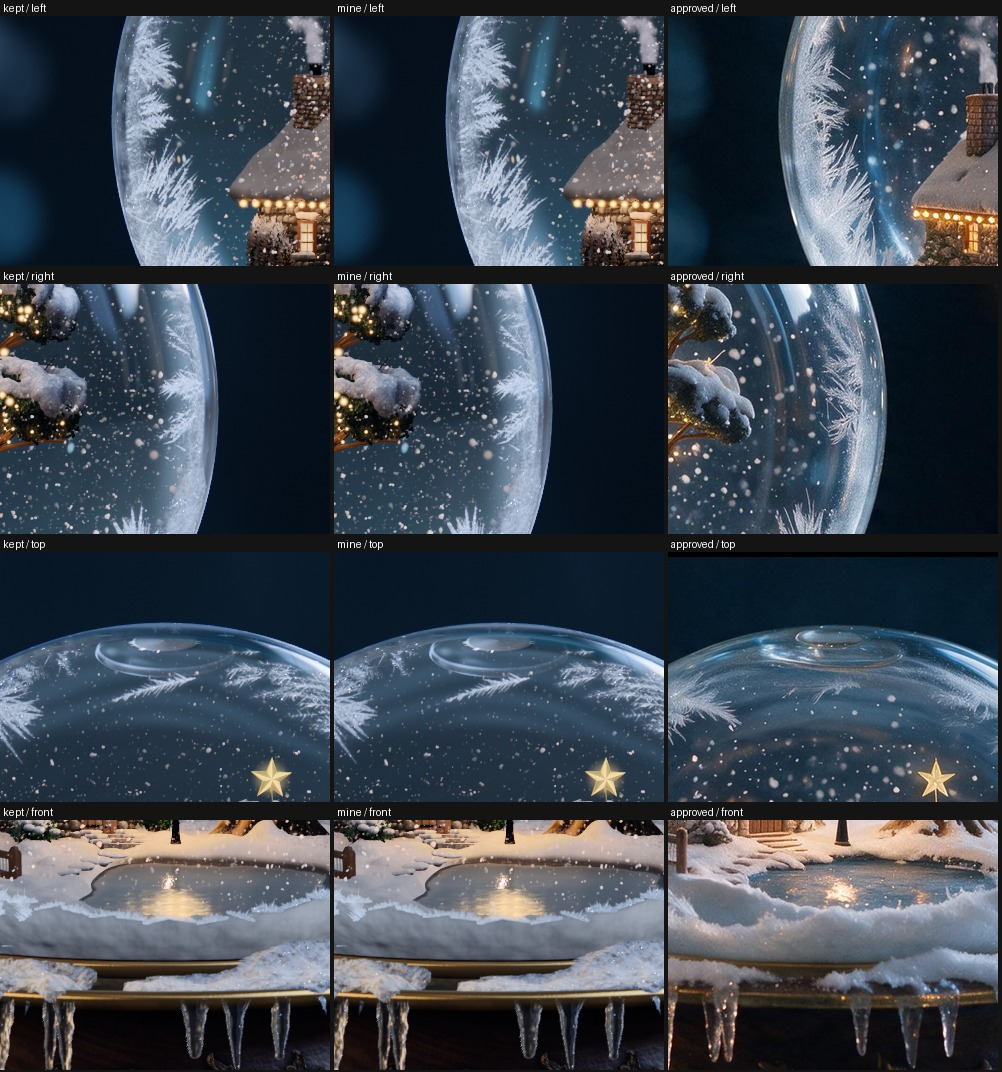
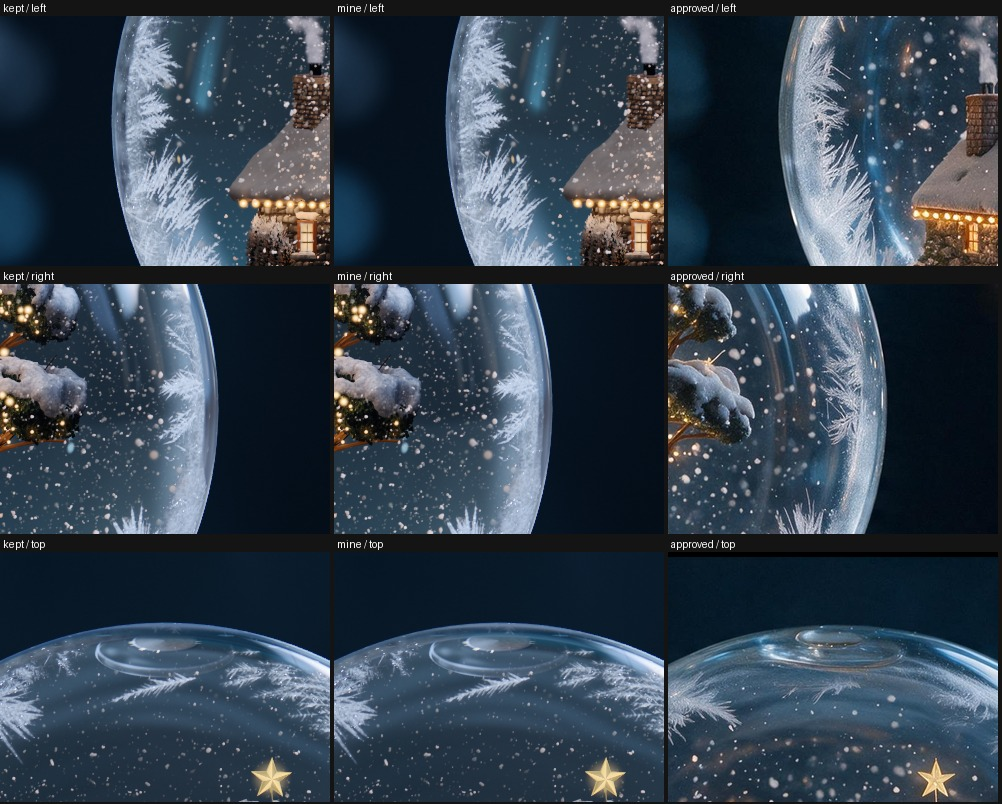
Handover for the glass, and winter at the tip

diff --git a/HANDOVER.md b/HANDOVER.md
@@ -1,0 +1,172 @@
+# The glass: handover for the next round
+
+Branch `agent/p5-glass`. All line numbers are in `src/globe/shell.ts` at the tip unless a file is named.
+Every season sets its glass through `setGlass(season, {...})` (line 102; winter's defaults at line 99 draw the kept picture).
+The values live in `src/seasons/spring/glass.ts:33`, `src/seasons/summer/glass.ts:28`, `src/seasons/fall/glass.ts:27`, `src/seasons/winter/frost.ts:24`.
+The shell measures everything in `s`, the share of the radius on screen (1 is the outline; 1 percent is 3.8 px at hd).
+
+## Item 64: the ring at the top (not mended)
+
+What the picture shows: spring, summer and fall keep a dark band about 13 px deep under the top outline. The teal band is gone.
+Ruled out, each by its own render: the mirror band (line 617, `mirBand`), the ring mesh (line 596, `ringCover` at 0), the rim zone's even glow (line 523, `uRimGlow` at 0, kept at 0 because the band got darker and less ring-like).
+Not yet tried, in the order I would try them:
+1. Line 578, `alpha`: the term `rim.clear * uRimAmt.x * rimZone` darkens the inside from `rim.from` 0.96 to the outline. The band's depth (13 px is 0.966) matches `rim.to` 0.967. Set `rimClear: 0` in one season and render the top.
+2. Lines 551 to 554, `wallZone` (`body.from` 0.962 to `body.to` 0.978) and the `wall` plate (line 51, `to: [0.966, 0.976]`): both end where the band starts. Give each an amount as `rimGlow` has and set it to 0.
+3. Line 47, `band` (`from` 0.976, `shade` 0.3, `side: [-0.2, 0.5]`): it shades the inside over the top left.
+A draft still of one season takes 70 s; the top band is plain at 2 samples, so judge it at draft and prove it at final.
+
+## Items 65 and 150: the outline (not mended)
+
+What the picture shows: at the final tier (24 samples) the kept keys have a smooth outline. Where the ring is thinned (`ringCover: 0.35`, `ringThin: 1`), a stepped 1 px bright line showed at the top left, the same steps as at 2 samples, so it is something the samples do not average.
+Commit `cf3d349` (line 596: the ring's outermost line, `ring.edge` 0.989 to 0.994, always covers) hides most of it; spring is still faintly stepped at 4x.
+Next:
+1. Find the line itself. It is either brighter than the display's white, so one sample in 24 saturates the pixel (candidates: `edge.line` at line 48 with `gain` 1.3 and `glint` 1.8, `rimCard` at line 37 with `tint [2.63, 2.29, 1.6]`), or it is read from a picture that does not move with the samples (`uBehind`, filled by `resolveBehind` in `src/core/accumulator.ts`, not the glass's file). Test: render fall at final with `ringCover: 0` and clamp `col` to 1 before the limb fade; if the steps go, it is the first.
+2. `glassLimb` (line 209) fades the shell over `limbPx` pixels (line 45) inside the outline; whatever lies behind shows through that fade. If the inside's own edge is hard there, the fade exposes it. Report it to whoever holds `src/core/accumulator.ts`.
+3. Mottle: `ringMottle: 0.3` in three seasons. Winter keeps 1.
+
+## Items 66, 75, 83, 121, 149: nothing bent near the rim (not mended)
+
+Numbers: the lens (`src/globe/lens.ts`, `lensPlace`) is right. Cottage 1.44x wider with it (247 px against 172 px in the `refraction` view), 1.333 at the centre in theory, 1.0 at the rim, and the last tenth of the radius holds central-plane radii 0.727R to R.
+What hid it is now off in three seasons: `bend: 0`, `ringCover: 0.35`, `ringThin: 1`, `rimClear: 0.3`. Winter keeps `bend: 1` (line 638).
+Why it still does not read: particles are sprites. `src/particles/draw/shader.ts` line 103 places the centre through the lens, but line 120 `mag` is the on-axis magnification and line 125 `rPx` uses it in both directions, so a flake at share 0.97 is as round as one at the centre.
+Next (not the glass's file, give it to the particles' owner): after line 103 call `lensPlace` for a second point a small step outward along the radius, take the ratio of the seen step to the true step, and scale the sprite's extent along the screen radius by it. `src/core/materials.ts` lines 148 to 149 do the same for the stage.
+Tried in the shell and dropped: `bend` at 0.22 (no visible change) and a monotone remap of `uBehind` over the last 14 percent (leaves were stretched toward the rim, because a remap with fixed ends must stretch somewhere). Do not repeat these.
+The ground's front edge and the fence are geometry in `src/scene/` and already go through the lens; their look at the rim is the scene's.
+
+## The layered arcs at the rim (not started)
+
+What the approved images show: thin bright arcs lying along the rim over the last 8 to 10 percent of the radius, orange in fall, golden in summer, pink-white in spring, warm glints in winter. They are the room's lights and the inside's own lights squeezed by the glass.
+What exists: the through view (`THROUGH`, `glassPoints`) draws the room's lights through the sphere; the mirror band (lines 597 to 617) marches the inside's light grid and is multiplied by `ringCover`, so it is nearly off in three seasons.
+Next:
+1. Raise the through view's fourth order near the rim (`windowGain[3]`) and look for arcs at share 0.9 to 0.98.
+2. Give the mirror band its own amount, separate from `ringCover` (the two lines after `mirBand`, `mirCover` and `gl_FragColor`, multiply by `uRingAmt.x`), and widen `ring.mirror.wide` 0.022 so that the inside's lamps show as streaks. Tint it by `gridLit`, not by `uSky`.
+3. Summer: the window's soft reflection ends in a straight lower edge near the right rim. Raise `windowSoftDeg` from 5 or fade the window by `s` above 0.9.
+4. Winter: the left strip (`strip`, line 38) is a teal blade; the approved image has a soft blue patch. Set `strip` below 1 in `frost.ts` and widen `strip.wideDeg`.
+
+## Commands that drew the pictures
+
+Kept keys: check out the kept commit in a second tree, `npm run still -- --key winter-rest --tier final --force`, copy `out/work/stills/winter-rest-hd-final.png` and its `.json` to `kept-winter-rest-final.png`. Mine: the same on the tip, to `mine-winter-rest-final.png`.
+Side by side, kept, mine, approved, rows left, right, top, front (the circle of each approved image is in `fcmp.sh`): `fcmp.sh winter`.
+The same at 3x for chosen places (x and y in radii from the centre): `python3 z.py winter 0.9,0.1 -0.85,-0.3`.
+The outline at 4x, kept, before, after: `python3 kink.py out.jpg summer`.
+Detail through the glass, mine over kept: `python3 hf.py winter`.
+Draft of one season in 70 s: `npm run still -- --season fall --state rest --camera hero --tier draft --format hd --force --look no`.
+The scripts follow in full. They read the pictures from the folder they run in; the paths in them point at my sandbox and need changing.
+
+### fcmp.sh
+
+```
+#!/bin/bash
+# fcmp.sh season  -> v/f-season.jpg (kept | mine | approved; left,right,top,front)
+declare -A C=([winter]=1411.3,652,553 [spring]=1413.2,654.8,547.9 [summer]=1407,658.4,550.7 [fall]=1418.8,659.6,564.1)
+s=$1
+CW=${CW:-330} CH=${CH:-250} python3 /home/user/workspace/t/cmp.py /home/user/workspace/v/f-$s.jpg ${2:-left,right,top,front} kept:/home/user/workspace/t/kept-$s-rest-final.png mine:/home/user/workspace/t/mine-$s-rest-final.png approved:/home/user/workspace/Snow-Globe-Perplexity/references/approved/$s-rest.png:${C[$s]}
+```
+
+### cmp.py
+
+```
+import sys, json, os
+from PIL import Image, ImageDraw
+# usage: cmp.py out.jpg label:img[:cx,cy,r] ...   regions fixed
+R0 = 377.0
+REG = {'left': (-0.86, 0.05), 'right': (0.86, 0.0), 'top': (0.0, -0.86), 'front': (0.0, 0.72), 'upright': (0.62, -0.62), 'lowleft': (-0.68, 0.55)}
+def load(spec):
+    parts = spec.split(':')
+    label, path = parts[0], parts[1]
+    im = Image.open(path).convert('RGB')
+    if len(parts) > 2:
+        cx, cy, r = [float(x) for x in parts[2].split(',')]
+    else:
+        rec = json.load(open(path + '.json'))['framing']['globe']
+        cx, cy, r = rec['cx'], rec['cy'], rec['r']
+    return label, im, cx, cy, r
+def crop(im, cx, cy, r, gx, gy, w, h):
+    s = R0 / r
+    if abs(s - 1) > 1e-3:
+        im2 = im.resize((round(im.width * s), round(im.height * s)), Image.LANCZOS)
+    else:
+        im2 = im
+    x = cx * s + gx * R0 - w / 2
+    y = cy * s + gy * R0 - h / 2
+    return im2.crop((round(x), round(y), round(x) + w, round(y) + h))
+def main():
+    out = sys.argv[1]
+    names = sys.argv[2].split(',')
+    w = int(os.environ.get('CW', 340)); h = int(os.environ.get('CH', 300))
+    items = [load(s) for s in sys.argv[3:]]
+    sheet = Image.new('RGB', (len(items) * (w + 4), len(names) * (h + 18)), (20, 20, 20))
+    d = ImageDraw.Draw(sheet)
+    for j, n in enumerate(names):
+        gx, gy = REG[n]
+        for i, (label, im, cx, cy, r) in enumerate(items):
+            c = crop(im, cx, cy, r, gx, gy, w, h)
+            sheet.paste(c, (i * (w + 4), j * (h + 18) + 16))
+            d.text((i * (w + 4) + 3, j * (h + 18) + 2), f'{label} / {n}', fill=(255, 255, 255))
+    sheet.save(out, quality=92)
+    print(out, sheet.size)
+main()
+```
+
+### z.py
+
+```
+import sys
+from PIL import Image
+C={'winter':(1411.3,652,553),'spring':(1413.2,654.8,547.9),'summer':(1407,658.4,550.7),'fall':(1418.8,659.6,564.1)}
+s=sys.argv[1]; regs=[tuple(float(v) for v in a.split(',')) for a in sys.argv[2:]]
+R=376.97
+ims=[]
+for n in ('kept','mine'):
+    ims.append((Image.open(f'{n}-{s}-rest-final.png').convert('RGB'),960,467.68))
+a=Image.open(f'/home/user/workspace/Snow-Globe-Perplexity/references/approved/{s}-rest.png').convert('RGB'); cx,cy,r=C[s]; k=R/r
+a=a.resize((round(a.width*k),round(a.height*k)),Image.LANCZOS); ims.append((a,cx*k,cy*k))
+W=H=150; Z=3
+sheet=Image.new('RGB',(3*(W*Z+4),len(regs)*(H*Z+4)))
+for j,(gx,gy) in enumerate(regs):
+    for i,(im,cx,cy) in enumerate(ims):
+        x=cx+gx*R-W/2;y=cy+gy*R-H/2
+        sheet.paste(im.crop((round(x),round(y),round(x)+W,round(y)+H)).resize((W*Z,H*Z),Image.NEAREST if i<2 else Image.BICUBIC),(i*(W*Z+4),j*(H*Z+4)))
+sheet.save(f'/home/user/workspace/v/z-{s}.jpg',quality=90); print(sheet.size)
+```
+
+### kink.py
+
+```
+import sys
+from PIL import Image
+R=376.97; cx,cy=960,467.68
+seasons=sys.argv[2:]
+pts=((-0.19,-0.985),(0.6,-0.81),(0.985,-0.1))
+sheet=Image.new('RGB',(3*(100*4+4),len(seasons)*len(pts)*(36*4+4)))
+row=0
+for s in seasons:
+    for (gx,gy) in pts:
+        for i,n in enumerate(('kept','pre','mine')):
+            try: im=Image.open(f'{n}-{s}-rest-final.png').convert('RGB')
+            except Exception: continue
+            x=cx+gx*R-50; y=cy+gy*R-18
+            sheet.paste(im.crop((round(x),round(y),round(x)+100,round(y)+36)).resize((400,144),Image.NEAREST),(i*404,row*148))
+        row+=1
+sheet.save(sys.argv[1],quality=92); print(sheet.size)
+```
+
+### hf.py
+
+```
+import sys, numpy as np
+from PIL import Image
+from scipy.ndimage import gaussian_filter
+def hf(path):
+    im=np.asarray(Image.open(path).convert('RGB')).astype(np.float64)/255
+    y=0.2126*im[...,0]+0.7152*im[...,1]+0.0722*im[...,2]
+    d=(y-gaussian_filter(y,1.5))**2
+    H,W=y.shape; yy,xx=np.mgrid[0:H,0:W]; cx,cy,R=960,467.68,376.97
+    r=np.hypot(xx-cx,yy-cy)/R
+    mini=(r<0.8)&(yy>cy-0.3*R)&(yy<cy+0.6*R)
+    base=(yy>cy+1.0*R)&(abs(xx-cx)<0.9*R)
+    return d[mini].mean(), d[base].mean()
+for s in sys.argv[1:]:
+    a=hf(f'kept-{s}-rest-final.png'); b=hf(f'mine-{s}-rest-final.png')
+    print(s, 'miniature mine/kept %.4f'%(b[0]/a[0]), 'base mine/kept %.4f'%(b[1]/a[1]))
+```
